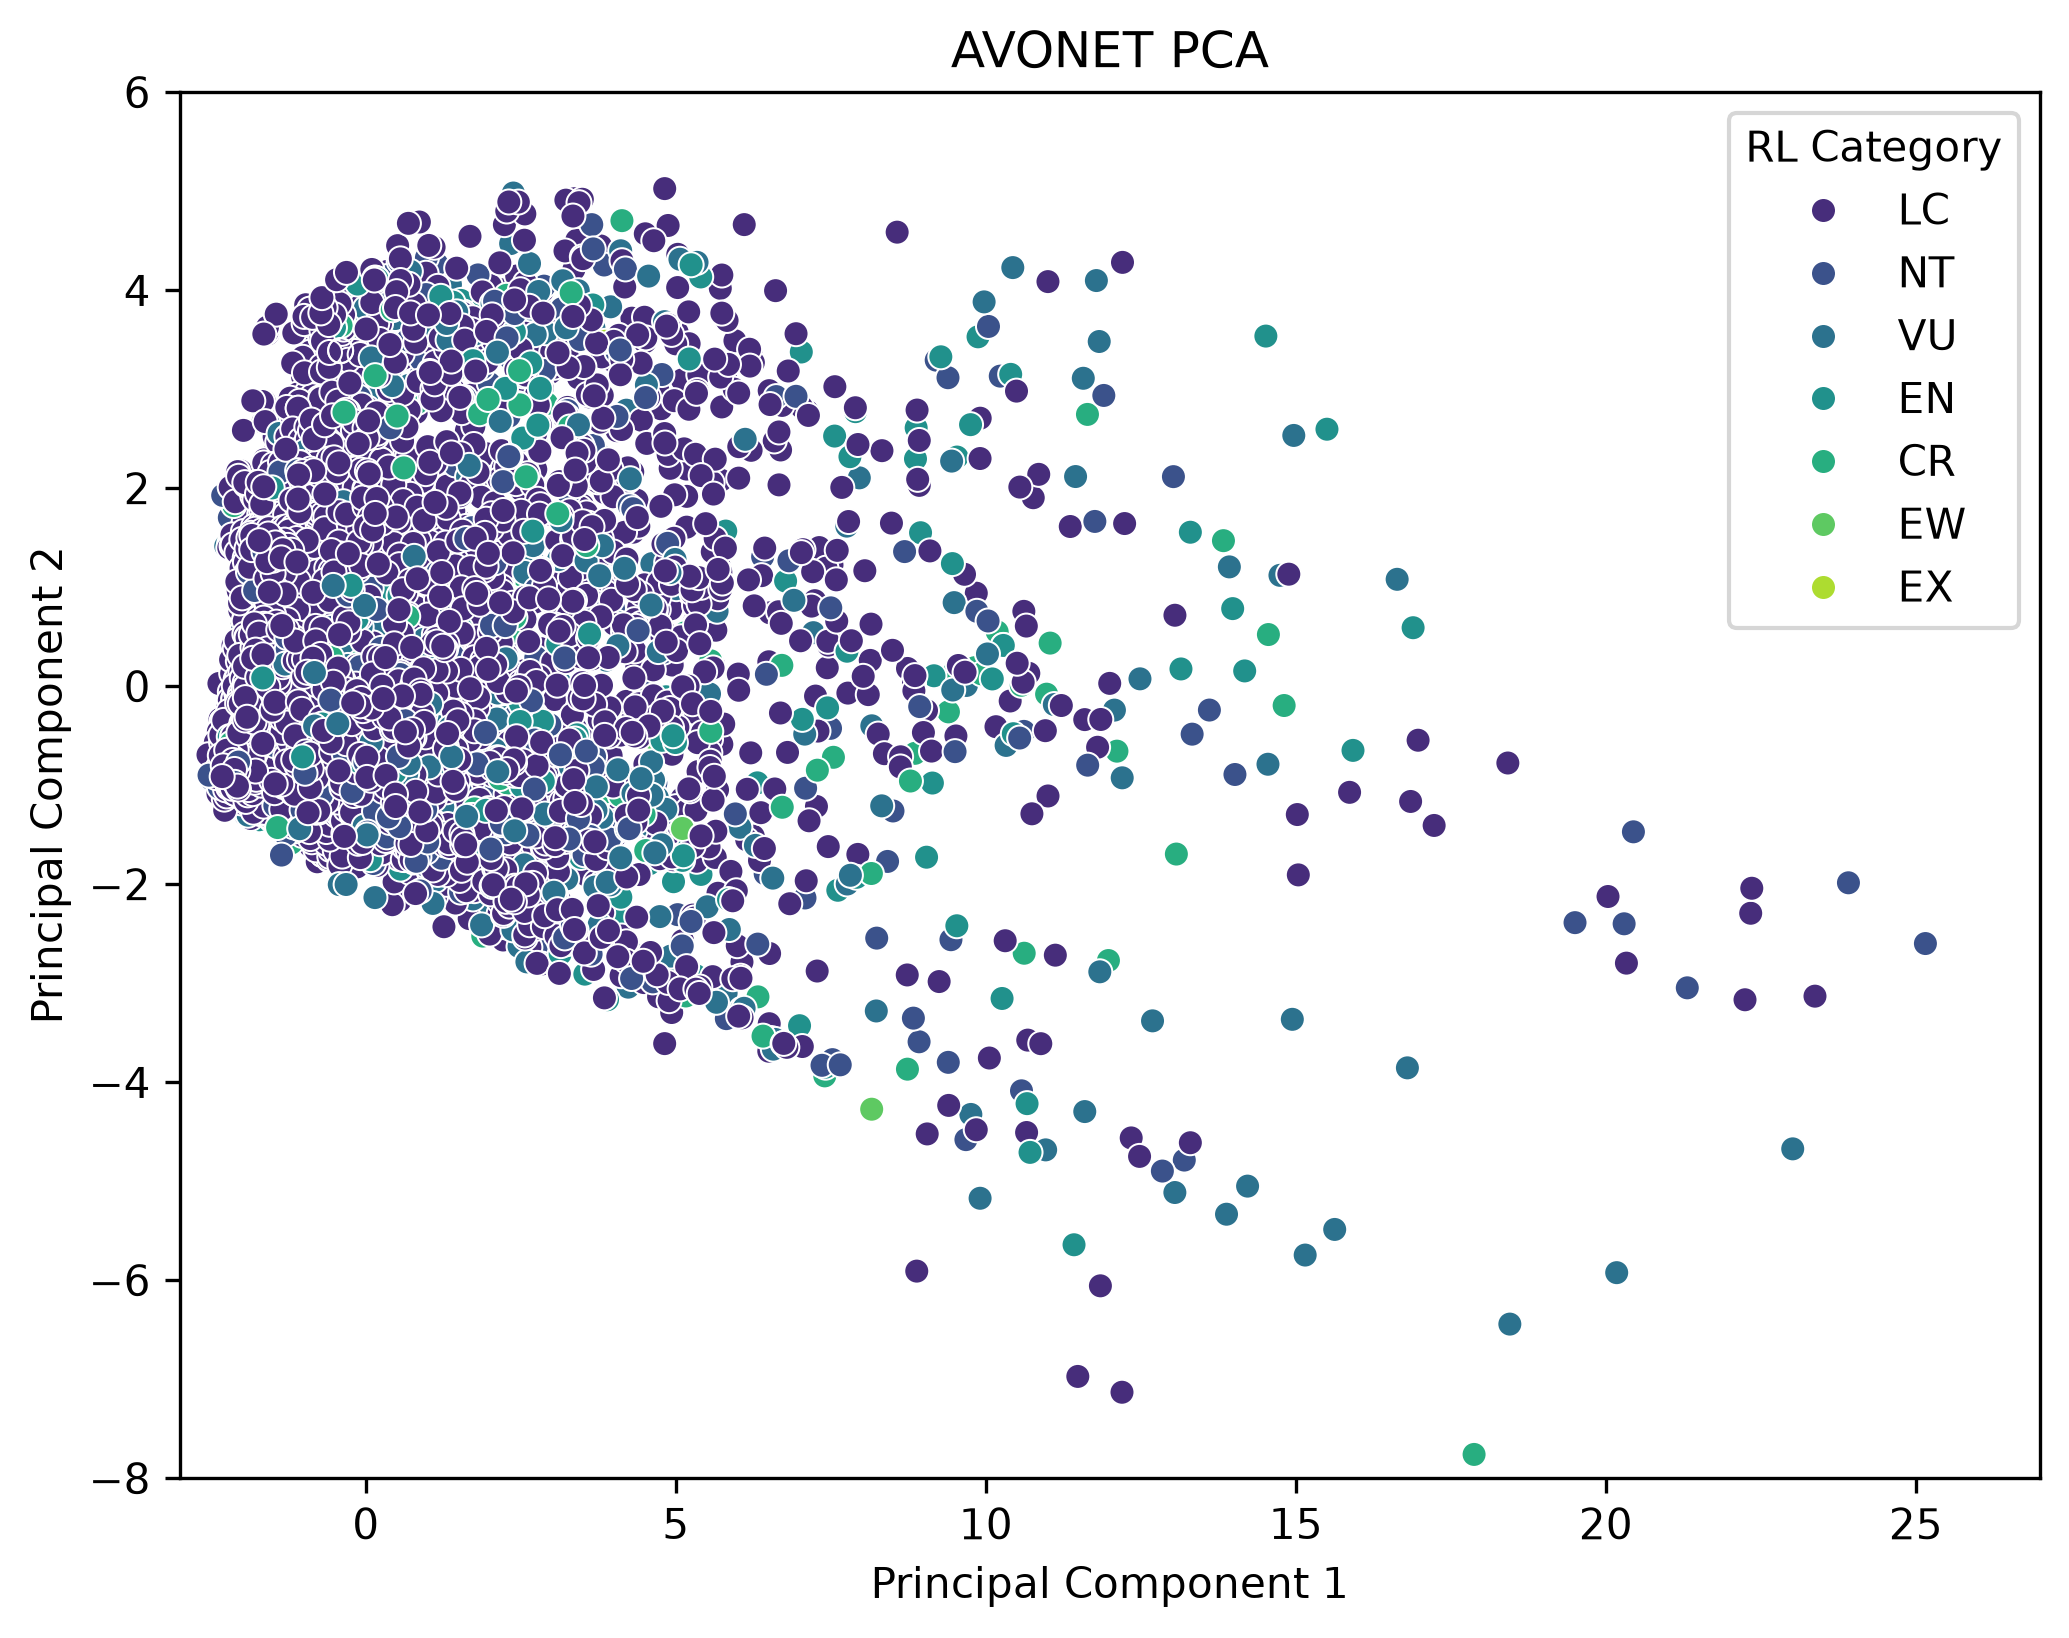
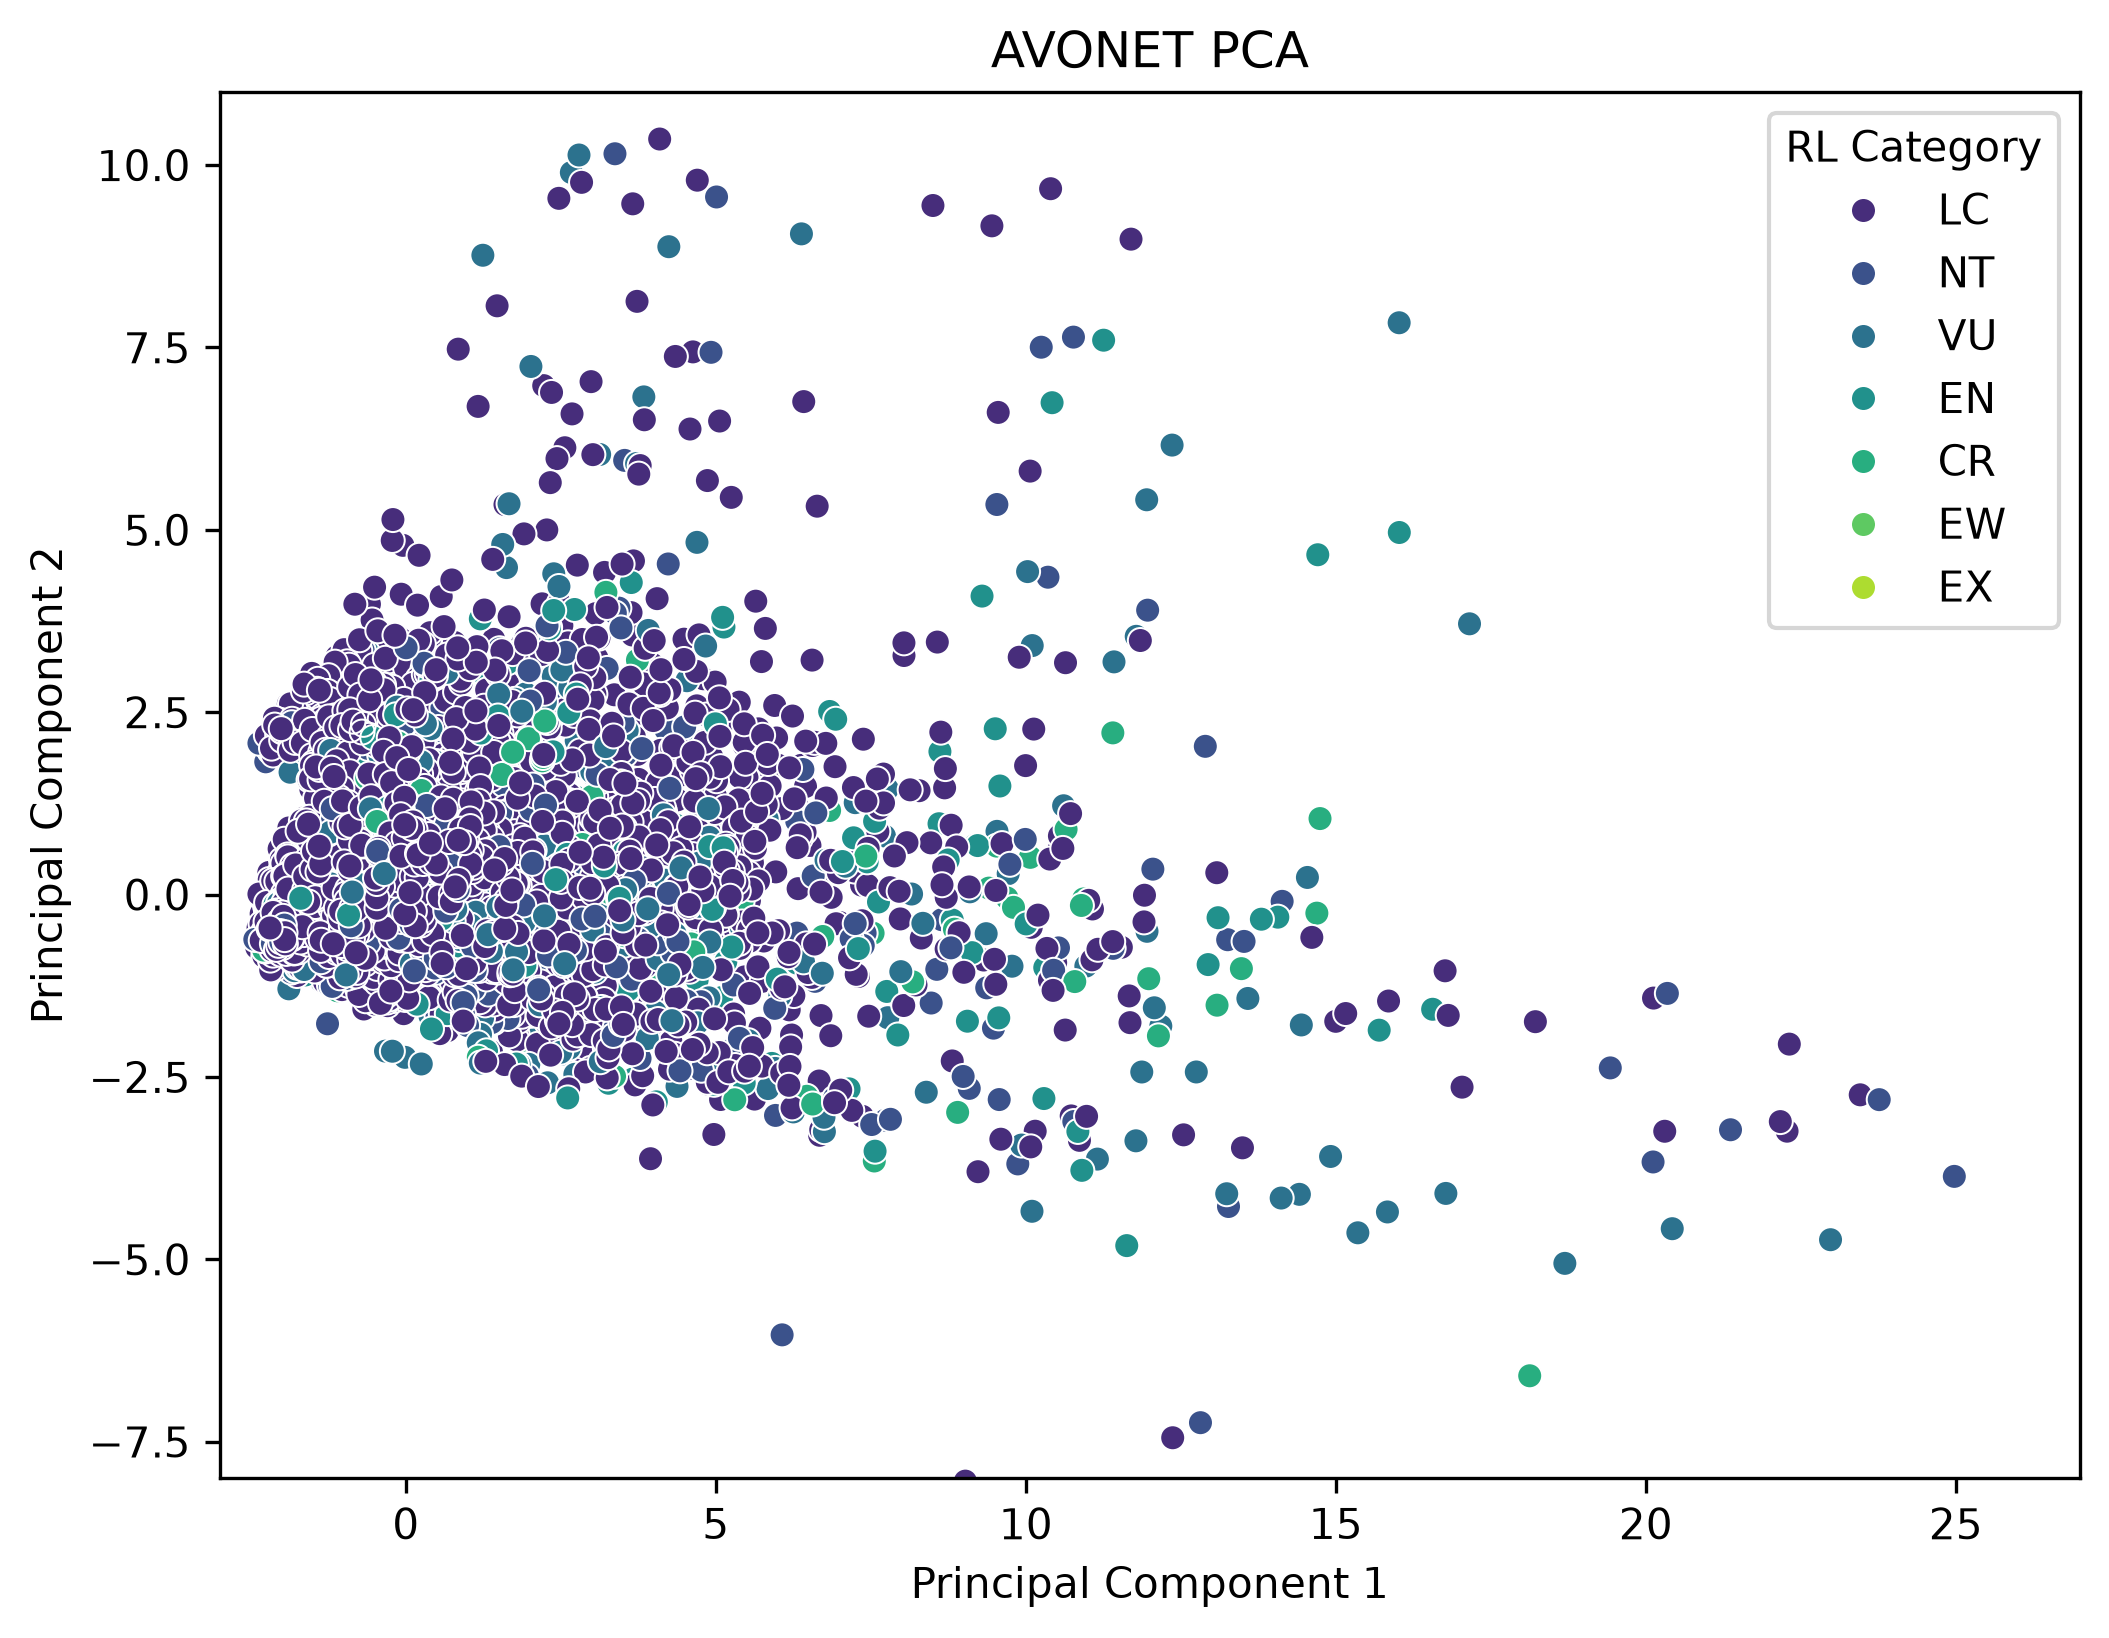
Included more principal components in the PCA, did a scree plot of the principal components, made a heat map of all 11 principal components, and plotted the PCA twice, one with the LC points and one without

diff --git a/src/AVONET_PCA.py b/src/AVONET_PCA.py
@@ -7,29 +7,51 @@ from sklearn.preprocessing import StandardScaler
 from sklearn.decomposition import PCA
 
 df_AVONET_IUCN = pd.read_csv("./data/AVONET_IUCN.csv") #Reads in the AVONET_IUCN spreadsheet
-df = df_AVONET_IUCN.drop(columns=["Total.individuals", "Complete.measures", "Sequence", "Female", "Male", "Unknown", "Max.Latitude", "Min.Latitude", "Centroid.Longitude", "Centroid.Latitude", "Range.Size"]).select_dtypes(include=[np.number]).dropna() #Selects the columns with only numbers and removes the rows with missing values
+df = df_AVONET_IUCN.drop(columns=["Total.individuals", "Complete.measures", "Sequence", "Female", "Male", "Unknown", "Max.Latitude", "Min.Latitude", "Centroid.Longitude", "Centroid.Latitude", "Habitat.Density", "Migration"]).select_dtypes(include=[np.number]).dropna() #Selects the columns with only numbers and removes the rows with missing values
 IUCN_categories = df_AVONET_IUCN.loc[df.index, "RL Category"] #Gets the IUCN categories from the AVONET_IUCN spreadsheet
 scaler = StandardScaler() #Standardizes the data
 scaler.fit(df) #Fits the scaler to the data
 scaled_data = scaler.transform(df)
 
-pca = PCA(n_components=2)
+pca = PCA(n_components=11)
 pca.fit(scaled_data)
 x_pca = pca.transform(scaled_data)
 
+pc_values = np.arange(pca.n_components_)+1
+plt.plot(pc_values, pca.explained_variance_ratio_, 'o-', linewidth=2, color='blue')
+plt.title('Scree Plot')
+plt.xlabel('Principal Component')
+plt.ylabel('Proportion of Variance Explained')
+plt.xticks(np.arange(1, 12, 1))
+plt.savefig("./output/AVONET_PCA_Scree_Plot.png", dpi=300, bbox_inches="tight")
+plt.show()
+
+#Plot only the first two principal components because they explain the most variance
 plt.figure(figsize=(8, 6))
 sns.scatterplot(x=x_pca[:, 0], y=x_pca[:, 1], hue=IUCN_categories, hue_order=["LC","NT", "VU", "EN", "CR", "EW", "EX"], palette="viridis")
 plt.xlabel("Principal Component 1")
 plt.ylabel("Principal Component 2")
-plt.ylim(-8, 6)
+plt.ylim(-8, 11)
 plt.xlim(-3, 27)
 plt.title("AVONET PCA")
 plt.savefig("./output/AVONET_PCA.png", dpi=300, bbox_inches="tight")
 plt.show()
 
-df_comp = pd.DataFrame(pca.components_,columns=df.columns,index=["PC1","PC2"])
+df_comp = pd.DataFrame(pca.components_,columns=df.columns,index=["PC1","PC2", "PC3", "PC4", "PC5", "PC6", "PC7", "PC8", "PC9", "PC10", "PC11"])
 plt.figure(figsize=(16, 10))
-sns.heatmap(df_comp, annot=True, cmap="viridis")
+sns.heatmap(df_comp, annot=True, cmap="plasma")
 plt.title("AVONET PCA Components Heatmap")
 plt.savefig("./output/AVONET_PCA_Components.png", dpi=300, bbox_inches="tight")
+plt.show()
+
+#Plot the PCA again but without the LC category
+plt.figure(figsize=(8, 6))
+not_lc = IUCN_categories != "LC"
+sns.scatterplot(x=x_pca[not_lc, 0], y=x_pca[not_lc, 1], hue=IUCN_categories[not_lc], hue_order=["NT", "VU", "EN", "CR", "EW", "EX"], palette="viridis")
+plt.xlabel("Principal Component 1")
+plt.ylabel("Principal Component 2")
+plt.ylim(-8, 11)
+plt.xlim(-3, 27)
+plt.title("AVONET PCA without LC Dots")
+plt.savefig("./output/AVONET_PCA_without_LC.png", dpi=300, bbox_inches="tight")
 plt.show()